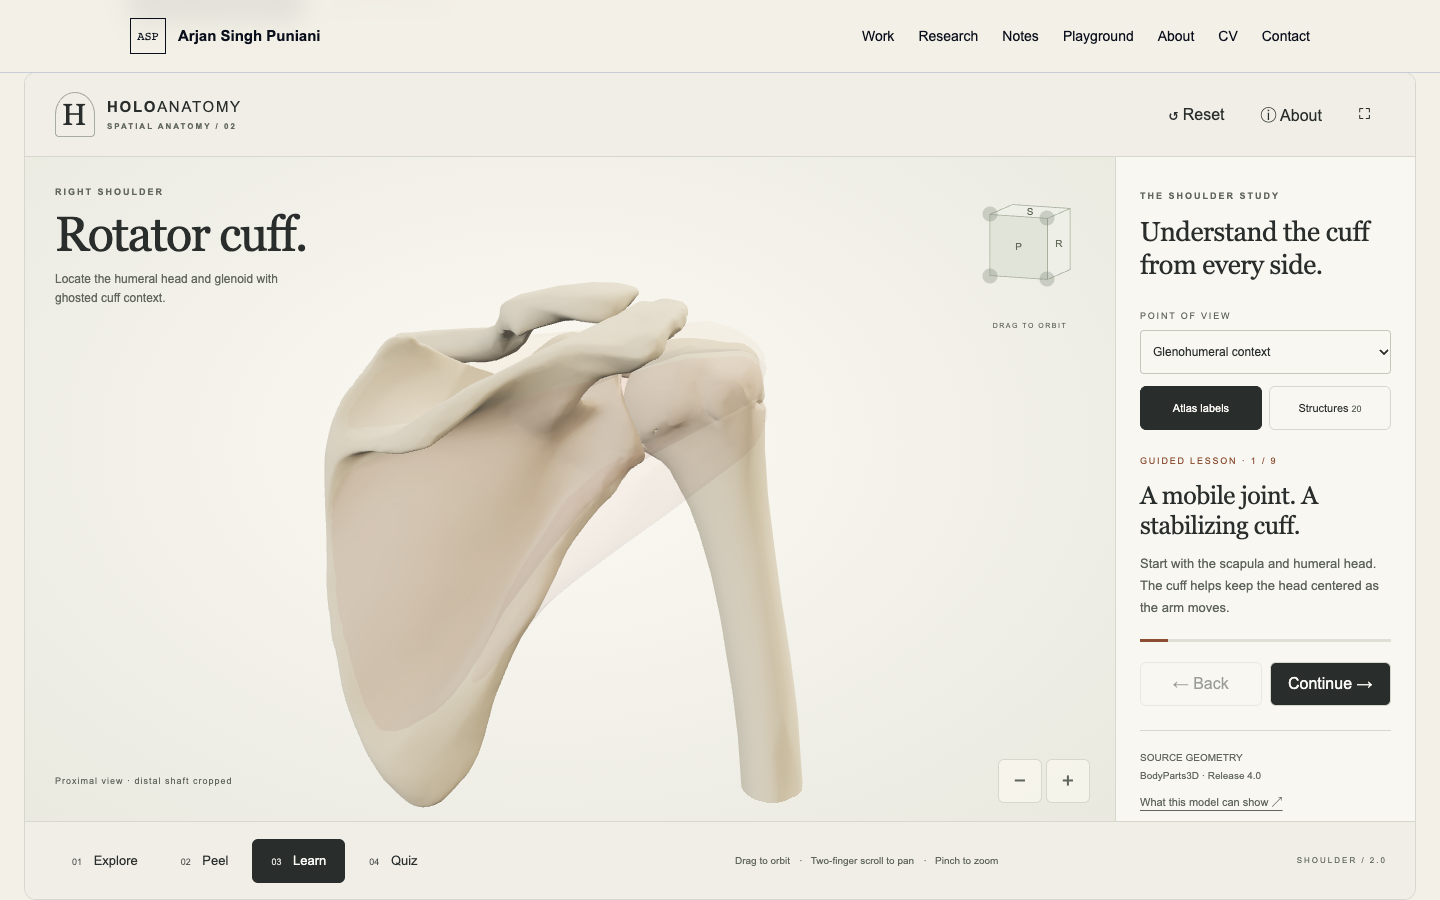
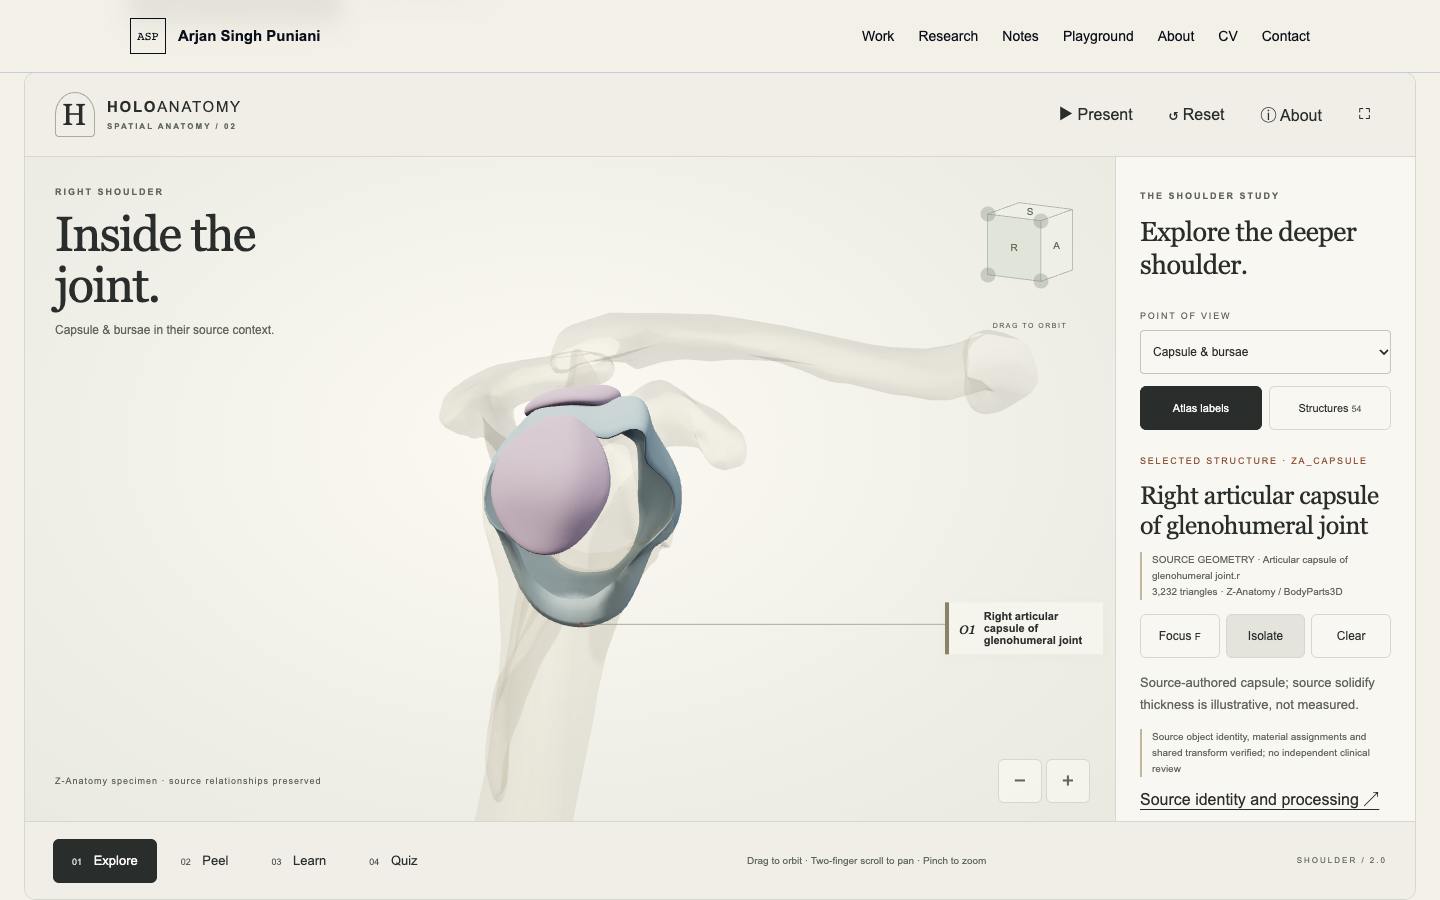
Add interactive shoulder dissection stations and reversible forceps tools

diff --git a/arjan-portfolio/public/holoanatomy/shoulder/app.js b/arjan-portfolio/public/holoanatomy/shoulder/app.js
@@ -3,6 +3,7 @@ import { ShoulderScene } from "./scene.js";
 import { bindInteraction } from "./interaction.js";
 import {
   createState,
+  DISSECTION, dissectionIds, dissect,
   ATLAS_GROUPS,
   ATLAS_IDS,
   ATLAS_VIEWS,
@@ -50,6 +51,7 @@ function initialize() {
     .join("");
   $("view-select").onchange = (e) => {
     if (ATLAS_VIEWS[e.target.value]) { openAtlas(e.target.value); return; }
+    if (state.dissection.active) setMode("explore");
     state.selected = null;
     state.isolated = false;
     reassemble(state);
@@ -132,7 +134,7 @@ function initialize() {
       scene.refresh();
       renderPanel();
     },
-    canStage: () => state.mode === "peel" && state.peel >= 2,
+    canStage: () => state.mode === "peel" && !state.dissection.active && state.peel >= 2,
   });
   bindInteraction($("orientation"), scene, { widget: true });
   setupCube();
@@ -202,6 +204,7 @@ function initialize() {
 function setMode(mode) {
   if (!["explore", "peel", "learn", "quiz"].includes(mode)) return;
   state.mode = mode;
+  state.dissection = createState().dissection;
   state.study = null;
   state.selected = null;
   state.isolated = false;
@@ -215,7 +218,8 @@ function setMode(mode) {
     scene.applyView(question(state).view);
   } else if (mode === "peel") {
     state.peel = 0;
-    scene.applyView("posterior");
+    state.dissection.active = !scene.atlasError;
+    scene.applyView(state.dissection.active ? "atlas_capsule" : "posterior");
   } else scene.applyView("posterior");
   scene.refresh();
   sync();
@@ -226,7 +230,7 @@ function reset() {
   const mode = state.mode;
   Object.assign(state, createState());
   state.mode = mode;
-  if (mode === "peel") state.peel = 0;
+  if (mode === "peel") { setMode("peel"); return; }
   if (mode === "learn") state.lesson = 0;
   scene.hover(null);
   scene.applyView(mode === "learn" ? "joint" : "posterior");
@@ -237,6 +241,7 @@ function reset() {
 function openAtlas(view) {
   if (!ATLAS_VIEWS[view] || scene.atlasError) return;
   state.mode = "explore";
+  state.dissection.active = false;
   state.presenting = false;
   state.study = null;
   state.selected = null;
@@ -252,6 +257,14 @@ function atlasNavigation() {
   return `<nav class="atlas-studies" aria-label="Inside the shoulder"><p class="kicker">INSIDE THE SHOULDER</p>${Object.entries(ATLAS_VIEWS).map(([id,v]) => `<button data-atlas-view="${id}" aria-pressed="${state.view === id}">${v.title}</button>`).join("")}</nav>`;
 }
 function select(id) {
+  if (id && state.mode === "peel" && state.dissection.active) {
+    const changed = dissect(state, id);
+    $("feedback").textContent = changed
+      ? state.dissection.tool === "lift" ? `${name(id)} moved to the specimen tray.`
+        : id === DISSECTION[state.dissection.step].target ? `Found it: ${name(id)}. Observation recorded.` : `${name(id)}. Keep exploring the target relationship.`
+      : "This structure stays as bone context. Lift a soft-tissue structure instead.";
+    scene.refresh(); renderPanel(); return;
+  }
   if (!id) {
     state.selected = null;
     state.isolated = false;
@@ -302,7 +315,7 @@ function sync() {
   document.querySelector(".inspector-top .lede").textContent = ATLAS_VIEWS[state.view] ? "Explore the deeper shoulder." : "Understand the cuff from every side.";
   $("structures-toggle").querySelector("span").textContent = scene.parts.size;
   $("source-summary").textContent = ATLAS_VIEWS[state.view] ? "Z-Anatomy · source-aligned joint study" : "BodyParts3D · Release 4.0";
-  $("view-purpose").textContent =
+  $("view-purpose").textContent = state.mode === "peel" && state.dissection.active ? `${state.dissection.tool === "probe" ? "◎ Probe" : "↗ Forceps"} · ${DISSECTION[state.dissection.step].title}` :
     state.mode === "learn" && state.study
       ? FUNCTION_STUDIES[state.study].title
       : PRESETS[state.view].purpose;
@@ -369,6 +382,8 @@ function renderPanel() {
     ];
     html = `<p class="kicker">PEEL · STAGE ${state.peel + 1} OF 5</p><h2>${titles[state.peel]}</h2><label class="field-label" for="peel-range">EXPOSURE DEPTH</label><input id="peel-range" aria-label="Anatomy exposure stage" type="range" min="0" max="4" step="1" value="${state.peel}"><p class="peel-stages">${state.peel < 2 ? "Move the slider to ghost, then remove the three supplied deltoid parts." : state.peel === 4 ? "Context is ghosted around your selected cuff muscle. The model does not map a separate tendon footprint." : "Select a cuff muscle and use Separate, or drag it deliberately to the staging area. Its source shape stays unchanged."}</p><select id="peel-muscle" aria-label="Cuff muscle to separate">${SITS.map((id) => `<option value="${id}" ${id === state.selected ? "selected" : ""}>${name(id)}</option>`).join("")}</select><div class="action-row"><button data-action="separate" ${state.peel < 2 ? "disabled" : ""}>Separate</button><button data-action="undo" ${!state.undo.length ? "disabled" : ""}>Undo</button></div><button data-action="reassemble" ${!state.staged.length ? "disabled" : ""}>Reassemble all</button><div class="stage-list">${state.staged.map((id) => `<button data-return="${id}">↶ Return ${name(id)}</button>`).join("")}</div><p class="integrity">Staging moves whole source meshes for study. It does not simulate cutting, tissue deformation, or surgical planes.</p>`;
   }
+  if (state.mode === "peel" && state.dissection.active) html = dissectionPanel();
+  else if (state.mode === "peel" && !scene.atlasError) html = '<button data-action="deep-lab">Open deep dissection lab →</button>' + html;
   if (state.mode === "learn") {
     const step = LESSON[state.lesson],
       study = FUNCTION_STUDIES[state.study];
@@ -419,6 +434,23 @@ function renderPanel() {
     }
   }
 }
+function dissectionPanel() {
+  const d = state.dissection, station = DISSECTION[d.step];
+  const available = dissectionIds(state).filter(id => !d.removed.includes(id));
+  return `<p class="kicker">DISSECTION LAB · ${d.found.length} / ${DISSECTION.length} OBSERVATIONS</p>
+    <h2>${station.title}</h2><p>${station.task}</p>
+    <div class="steps" role="progressbar" aria-label="Dissection observations" aria-valuemin="0" aria-valuemax="5" aria-valuenow="${d.found.length}"><span style="width:${d.found.length / DISSECTION.length * 100}%"></span></div>
+    ${d.found.length === DISSECTION.length ? '<p class="observation">All five targets found. Reassemble the specimen and explore how their positions relate. Use Reset for a fresh session.</p>' : ''}
+    <nav class="study-tabs" aria-label="Dissection stations">${DISSECTION.map((step,i) => `<button data-station="${i}" aria-current="${i === d.step ? 'step' : 'false'}">${d.found.includes(i) ? '✓' : i+1} · ${step.title}</button>`).join('')}</nav>
+    <div class="study-tabs" role="group" aria-label="Dissection tools"><button data-tool="probe" aria-pressed="${d.tool === 'probe'}">◎ Probe · identify</button><button data-tool="lift" aria-pressed="${d.tool === 'lift'}">↗ Forceps · lift away</button></div>
+    <p class="integrity">Click a structure to ${d.tool === 'probe' ? 'identify it' : 'lift its whole source mesh into the tray'}. Drag to orbit. Bones remain as ghosted context.</p>
+    <div class="action-row"><button data-action="lab-undo" ${!d.undo.length ? 'disabled' : ''}>Undo lift</button><button data-action="lab-restore" ${!d.removed.length ? 'disabled' : ''}>Restore all</button></div>
+    ${state.selected ? `<div class="observation"><strong>${escape(name(state.selected))}</strong><button data-action="focus">Focus structure</button><button data-action="sources">Source & provenance</button></div>` : ''}
+    <details><summary>Accessible structure controls · ${available.length}</summary><div class="stage-list">${available.map(id => `<button data-select="${id}">${escape(name(id))}</button>`).join('')}</div></details>
+    <details ${d.removed.length ? 'open' : ''}><summary>Specimen tray · ${d.removed.length}</summary><p>Return a structure to its original position.</p><div class="stage-list">${d.removed.map(id => `<button data-restore="${id}">↶ ${escape(name(id))}</button>`).join('')}</div></details>
+    <p class="integrity">Five teaching exposures in one source-matched specimen. Whole-mesh removal is reversible; this does not simulate incisions, tissue mechanics or a surgical approach. Insertion regions are source annotations.</p>
+    <button data-action="surface-lab">Switch to deltoid & cuff specimen</button>`;
+}
 function lessonStep(n) {
   state.study = null;
   state.lesson = Math.max(0, Math.min(LESSON.length - 1, n));
@@ -430,6 +462,21 @@ function lessonStep(n) {
   renderPanel();
 }
 function contextClick(e) {
+  const station = e.target.closest("[data-station]"), tool = e.target.closest("[data-tool]"), restore = e.target.closest("[data-restore]");
+  const labAction = e.target.closest("[data-action]")?.dataset.action;
+  if (station || tool || restore || ["lab-undo", "lab-restore", "surface-lab", "deep-lab"].includes(labAction)) {
+    const d = state.dissection;
+    if (station) { d.step = Number(station.dataset.station); state.selected = null; scene.applyView(d.step === 4 ? "atlas_neurovascular" : "atlas_capsule"); }
+    if (tool) d.tool = tool.dataset.tool;
+    if (restore || labAction === "lab-restore") { d.undo.push([...d.removed]); d.removed = restore ? d.removed.filter(id => id !== restore.dataset.restore) : []; }
+    if (labAction === "lab-undo" && d.undo.length) { d.removed = d.undo.pop(); state.selected = null; }
+    if (labAction === "deep-lab") { setMode("peel"); return; }
+    if (labAction === "surface-lab") { d.active = false; state.selected = null; state.peel = 0; scene.applyView("posterior"); }
+    scene.refresh(); renderPanel();
+    if (station) $("context").querySelector(`[data-station="${d.step}"]`)?.focus({preventScroll:true});
+    if (tool) $("context").querySelector(`[data-tool="${d.tool}"]`)?.focus({preventScroll:true});
+    return;
+  }
   const atlasButton = e.target.closest("[data-atlas-view]");
   if (atlasButton) {
     openAtlas(atlasButton.dataset.atlasView);
@@ -536,7 +583,7 @@ function updateOverlays() {
           ? [state.selected]
           : state.mode === "learn" && state.study
             ? FUNCTION_STUDIES[state.study].ids
-            : PRESETS[state.view].labels
+            : state.dissection.active && state.mode === "peel" ? [] : PRESETS[state.view].labels
       : [];
   const signature = ids.join() + ":" + state.selected;
   if (signature !== labelSignature) {

diff --git a/arjan-portfolio/public/holoanatomy/shoulder/model.js b/arjan-portfolio/public/holoanatomy/shoulder/model.js
@@ -197,6 +197,31 @@ for (const [id, view] of Object.entries(ATLAS_VIEWS)) {
 export function atlasViewFor(id) {
   return Object.keys(ATLAS_VIEWS).find((view) => ATLAS_GROUPS[ATLAS_VIEWS[view].group].includes(id)) || "atlas_attachments";
 }
+// Study stations are teaching exposures, not a surgical approach or depth map.
+export const DISSECTION = [
+  {title: "Uncover the cuff", groups: ["bones", "cuff", "capsule"], target: "ZA_subacromial", task: "Probe the subacromial bursa, then lift it away to compare the underlying cuff surfaces."},
+  {title: "Follow the attachment", groups: ["bones", "cuff", "attachments"], target: "ZA_infra_tendon", task: "Lift individual cuff muscles. Probe the supplied infraspinatus tendon region; compare it with the insertion annotations."},
+  {title: "Open the capsule study", groups: ["bones", "capsule", "joint"], target: "ZA_capsule", task: "Find the joint capsule with the probe. Lift it away and inspect the structures revealed inside."},
+  {title: "Explore the joint rim", groups: ["bones", "joint"], target: "ZA_labrum", task: "Probe the glenoid labrum. Lift individual ligaments or cartilage surfaces to compare the joint rim with its bony context."},
+  {title: "Trace the nerve routes", groups: ["bones", "neurovascular"], target: "ZA_axillary", task: "Find the axillary nerve with the probe. Lift overlapping regional vessels to follow its supplied course."},
+];
+export function dissectionIds(state) {
+  return DISSECTION[state.dissection.step].groups.flatMap(group => ATLAS_GROUPS[group]);
+}
+export function dissect(state, id) {
+  const d = state.dissection;
+  if (!d.active || !dissectionIds(state).includes(id) || d.removed.includes(id)) return false;
+  if (d.tool === "probe") {
+    state.selected = id;
+    if (id === DISSECTION[d.step].target && !d.found.includes(d.step)) d.found.push(d.step);
+    return true;
+  }
+  if (ATLAS_GROUPS.bones.includes(id)) return false;
+  d.undo.push([...d.removed]);
+  d.removed.push(id);
+  state.selected = null;
+  return true;
+}
 export const LESSON = [
   {
     title: "A mobile joint. A stabilizing cuff.",
@@ -374,6 +399,7 @@ export function createState() {
     }
   }
   return {
+    dissection: { active: false, step: 0, tool: "probe", removed: [], undo: [], found: [] },
     mode: "explore",
     presenting: false,
     study: null,
@@ -398,6 +424,10 @@ export function createState() {
   };
 }
 export function visibility(state, id) {
+  if (state.mode === "peel" && state.dissection.active) {
+    if (!dissectionIds(state).includes(id) || state.dissection.removed.includes(id)) return "hidden";
+    return ATLAS_GROUPS.bones.includes(id) && state.selected !== id ? "ghost" : "visible";
+  }
   const p = PRESETS[state.view];
   const atlasView = Boolean(ATLAS_VIEWS[state.view]);
   if (ATLAS_IDS.includes(id) && (!atlasView || state.mode !== "explore")) return "hidden";

diff --git a/arjan-portfolio/public/holoanatomy/shoulder/index.html b/arjan-portfolio/public/holoanatomy/shoulder/index.html
@@ -67,7 +67,7 @@
           aria-label="Interactive right shoulder. Drag to orbit, click a structure to select. Arrow keys orbit, plus and minus zoom, F focuses, R resets."
         ></canvas>
         <svg id="leaders" aria-hidden="true"></svg>
-        <div id="atlas" aria-label="Anatomy labels"></div>
+        <div id="atlas" role="group" aria-label="Anatomy labels"></div>
         <div
           id="orientation"
           aria-label="Anatomical orientation. Drag to orbit."

diff --git a/arjan-portfolio/Documentation/SHOULDER-DISSECTION-LAB.md b/arjan-portfolio/Documentation/SHOULDER-DISSECTION-LAB.md
@@ -1,0 +1,13 @@
+# Shoulder dissection lab — October 26, 2026
+
+Peel now opens a source-matched Z-Anatomy dissection lab when the additional anatomy loads. The original deltoid/cuff specimen remains available through “Switch to deltoid & cuff specimen”; it remains the fallback if the atlas cannot load.
+
+Five teaching exposures cover cuff/bursae, tendon/insertion annotations, capsule, joint rim/ligaments/cartilage, and regional nerves/vessels. These are thematic study stations, not a claimed surgical sequence or segmentation of tissue depth. Matching bones remain ghosted. No mixing of specimens, generated anatomy, or new anatomical claims.
+
+Probe selects and records each station's target once. Forceps removes one whole source mesh from the scene into a named return tray. Undo, individual return, restore all, and reset recover source positions. Drag remains orbit. Keyboard-accessible structure buttons invoke the same actions. Observations track exploration, not clinical competence; no score for removal or time pressure.
+
+All 31 non-bone atlas parts can be lifted in their respective stations. Removed parts persist between stations until restored, while the original Explore/Learn/Quiz visibility stays separate. Bones cannot be removed. Source provenance remains accessible.
+
+No incision, deformation, haptics, surgical planes, or physiological response is simulated. Four complete cuff tendons remain unavailable; insertion regions remain authored annotations. This is an interactive anatomy study, not a validated surgical simulator.
+
+Verification: 95 portfolio tests and 21 shoulder tests; typecheck and production build. `tools/shoulder/dissection-qa.mjs` checks all stations, probe observations, lift/undo, direct rendered-mesh picking, source separation, desktop accessibility, mobile width, reset and mode transitions. Screenshots in `shoulder-dissection-qa/`. Physical device and educator review remain outstanding.
